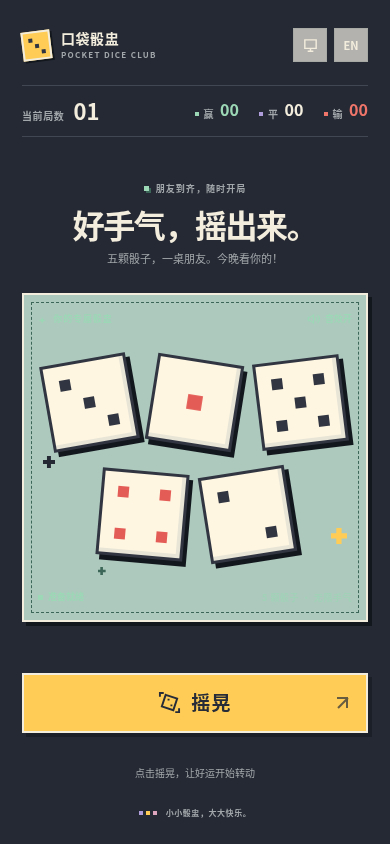
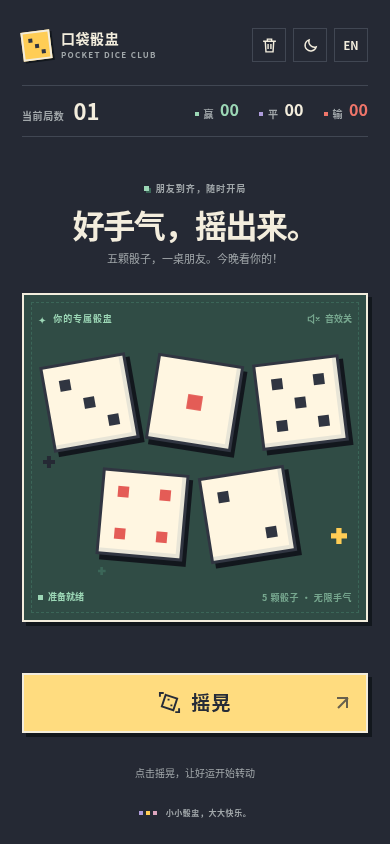
Add confirmed record reset while preserving preferences

Changed region(s): [[0.0615, 0.3389, 0.9538, 0.7393], [0.0615, 0.8009, 0.9538, 0.8934], [0.6462, 0.0308, 0.9538, 0.0924]]

diff --git a/app.js b/app.js
@@ -14,6 +14,9 @@
       scoreboard: '本局与战绩', dice: '五颗骰子', die: '骰子', points: '点',
       caption: '5 颗骰子 · 无限手气', resultCaption: '记住点数，藏好好运', done: '本局已结束 ✓',
       nextRound: '本局已记分，新一局开始。',
+      reset: '重置记录', resetTitle: '确定重置记录？', cancel: '取消', resetConfirm: '确认重置',
+      resetDescription: '局数和赢、平、输记录将清零，当前对局也会重新开始。主题、语言和音效设置会保留，此操作无法撤销。',
+      resetDone: '记录已清空，从第 1 局重新开始。',
       ready: { title: '好手气，摇出来。', subtitle: '五颗骰子，一桌朋友。今晚看你的！', status: '准备就绪', hint: '点击摇晃，让好运开始转动' },
       shaking: { title: '好运，正在路上！', subtitle: '跟着感觉走，随时喊停。', status: '摇晃中', hint: '点击「停」，揭晓你的点数' },
       result: { title: '这把，手气如何？', subtitle: '不满意就重摇，准备好了就确定。', status: '等待确认', hint: '确定后锁定点数，和朋友开始对局' },
@@ -30,6 +33,9 @@
       scoreboard: 'Round and results', dice: 'Five dice', die: 'Die', points: '',
       caption: '5 DICE · ENDLESS LUCK', resultCaption: 'YOUR DICE, YOUR SECRET', done: 'Round complete ✓',
       nextRound: 'Result saved. A new round is ready.',
+      reset: 'Reset records', resetTitle: 'Reset your records?', cancel: 'Cancel', resetConfirm: 'Reset records',
+      resetDescription: 'Clear all round, win, draw and loss records and restart the current round. Theme, language and sound settings will stay. This cannot be undone.',
+      resetDone: 'Records cleared. Starting again at round 1.',
       ready: { title: 'Give luck a little shake.', subtitle: 'Five dice. A table of friends. Your move.', status: 'READY TO ROLL', hint: 'Tap Shake and let the good times roll' },
       shaking: { title: 'Good luck in motion.', subtitle: 'Trust your gut. Stop when it feels right.', status: 'SHAKING', hint: 'Tap Stop to reveal your dice' },
       result: { title: 'Feeling lucky?', subtitle: 'Roll again, or lock in your lucky five.', status: 'YOUR CALL', hint: 'Confirm your dice to start playing with friends' },
@@ -42,6 +48,7 @@
   const arena = $('#dice-arena');
   const slider = $('#round-slider');
   const thumb = $('#slider-thumb');
+  const resetDialog = $('#reset-dialog');
   const reducedMotion = matchMedia('(prefers-reduced-motion: reduce)');
   const systemTheme = matchMedia('(prefers-color-scheme: dark)');
   const faces = { 1: [5], 2: [1, 9], 3: [1, 5, 9], 4: [1, 3, 7, 9], 5: [1, 3, 5, 7, 9], 6: [1, 3, 4, 6, 7, 9] };
@@ -63,6 +70,7 @@
   let slideProgress = 0;
   let drag = null;
   let finishing = false;
+  let finishTimer = 0;
   const activeSounds = new Set();
 
   const diceElements = Array.from({ length: 5 }, (_, i) => {
@@ -160,6 +168,8 @@
     $('#language-toggle').textContent = language === 'zh' ? 'EN' : '中';
     $('#language-toggle').setAttribute('aria-label', language === 'zh' ? 'Switch to English' : '切换为中文');
     $('#language-toggle').title = $('#language-toggle').getAttribute('aria-label');
+    $('#reset-records-button').setAttribute('aria-label', text.reset);
+    $('#reset-records-button').title = text.reset;
     updateTheme();
     updateSound();
     drawDice();
@@ -321,7 +331,8 @@
     ensureAudio();
     melody(outcome);
     const finalOutcome = outcome;
-    window.setTimeout(() => {
+    finishTimer = window.setTimeout(() => {
+      finishTimer = 0;
       stats[finalOutcome] += 1;
       outcome = 'draw';
       state = 'ready';
@@ -333,9 +344,49 @@
       void shell.offsetWidth;
       shell.classList.add('celebration');
       $('#announcement').textContent = words[language].nextRound;
-      $('#shake-button').focus({ preventScroll: true });
+      if (!resetDialog.open) $('#shake-button').focus({ preventScroll: true });
     }, reducedMotion.matches ? 0 : 220);
   }
+
+  function resetRecords() {
+    clearTimeout(finishTimer);
+    finishTimer = 0;
+    cancelAnimationFrame(animationFrame);
+    stopSounds();
+    finishing = false;
+    stats.win = stats.draw = stats.loss = 0;
+    dice = [3, 1, 5, 4, 2];
+    outcome = 'draw';
+    state = 'ready';
+    arena.classList.remove('is-settling');
+    shell.classList.remove('celebration');
+    diceElements.forEach((die) => {
+      die.style.setProperty('--shake-x', '0px');
+      die.style.setProperty('--shake-y', '0px');
+      die.style.setProperty('--shake-r', '0deg');
+    });
+    render();
+    resetSlider();
+    save();
+    $('#announcement').textContent = words[language].resetDone;
+  }
+
+  $('#reset-records-button').addEventListener('click', () => {
+    if (resetDialog.open) return;
+    cancelAnimationFrame(animationFrame);
+    stopSounds();
+    resetDialog.returnValue = 'cancel';
+    resetDialog.showModal();
+  });
+  resetDialog.addEventListener('close', () => {
+    if (resetDialog.returnValue === 'confirm') resetRecords();
+    else if (state === 'shaking' && !document.hidden) {
+      ensureAudio();
+      lastShake = -Infinity;
+      animationFrame = requestAnimationFrame(shakeFrame);
+    }
+    $('#reset-records-button').focus({ preventScroll: true });
+  });
 
   $('#shake-button').addEventListener('click', () => state === 'shaking' ? stopShake() : startShake());
   $('#reroll-button').addEventListener('click', startShake);

diff --git a/index.html b/index.html
@@ -24,6 +24,9 @@
           <div class="brand-copy"><strong data-i18n="brand">口袋骰盅</strong><span>POCKET DICE CLUB</span></div>
         </div>
         <div class="toolbar">
+          <button class="icon-button" id="reset-records-button" type="button" aria-label="重置记录" title="重置记录" aria-haspopup="dialog" aria-controls="reset-dialog">
+            <svg viewBox="0 0 24 24" fill="none" stroke="currentColor" stroke-width="2" aria-hidden="true"><path d="M3 6h18M9 6V3h6v3M6 6l1 15h10l1-15M10 10v7M14 10v7"/></svg>
+          </button>
           <button class="icon-button" id="theme-toggle" type="button" aria-label="主题：跟随系统，点击切换" title="主题：跟随系统，点击切换">
             <svg viewBox="0 0 24 24" fill="none" stroke="currentColor" stroke-width="2" aria-hidden="true"><path d="M4 4h16v12H4zM8 20h8M12 16v4"/></svg>
           </button>
@@ -103,5 +106,16 @@
       <footer class="footer-note"><span class="footer-diamonds" aria-hidden="true"><i></i><i></i><i></i></span><span data-i18n="footer">小小骰盅，大大快乐。</span></footer>
       <div class="sr-only" role="status" aria-live="polite" id="announcement"></div>
     </div>
+    <dialog class="reset-dialog" id="reset-dialog" aria-labelledby="reset-title" aria-describedby="reset-description">
+      <form method="dialog">
+        <span class="dialog-symbol" aria-hidden="true">!</span>
+        <h2 id="reset-title" data-i18n="resetTitle">确定重置记录？</h2>
+        <p id="reset-description" data-i18n="resetDescription">局数和赢、平、输记录将清零，当前对局也会重新开始。主题、语言和音效设置会保留，此操作无法撤销。</p>
+        <div class="dialog-actions">
+          <button class="action-button action-secondary" type="submit" value="cancel" autofocus data-i18n="cancel">取消</button>
+          <button class="action-button action-reset" id="confirm-reset-button" type="submit" value="confirm" data-i18n="resetConfirm">确认重置</button>
+        </div>
+      </form>
+    </dialog>
   </body>
 </html>

diff --git a/styles.css b/styles.css
@@ -176,6 +176,22 @@ button:disabled { cursor: default; }
 .brand-copy strong { font-size: 14px; font-weight: 850; line-height: 1.25; letter-spacing: .04em; }
 .brand-copy > span { color: var(--muted); font-size: 8px; font-weight: 650; line-height: 1.25; letter-spacing: .16em; }
 .toolbar { display: flex; gap: 7px; flex: 0 0 auto; }
+.reset-dialog {
+  width: min(340px, calc(100vw - 40px));
+  max-height: calc(100dvh - 32px);
+  padding: 24px;
+  border: 3px solid var(--ink);
+  background: var(--paper);
+  color: var(--ink);
+  box-shadow: 7px 7px 0 var(--shadow);
+}
+.reset-dialog::backdrop { background: rgba(15, 20, 28, .65); }
+.dialog-symbol { display: grid; place-items: center; width: 32px; height: 32px; margin-bottom: 16px; border: 2px solid var(--ink); background: var(--gold); color: #272c38; font-size: 22px; font-weight: 850; box-shadow: 3px 3px 0 var(--shadow); }
+.reset-dialog h2 { margin: 0 0 12px; font-size: 22px; line-height: 1.3; }
+.reset-dialog p { margin: 0 0 24px; color: var(--muted); font-size: 13px; line-height: 1.7; }
+.dialog-actions { display: grid; grid-template-columns: 1fr 1fr; gap: 12px; }
+.dialog-actions .action-button { min-height: 46px; padding: 10px 7px; font-size: 13px; letter-spacing: 0; }
+.action-reset { background: var(--red); color: #272c38; }
 .icon-button {
   display: grid;
   place-items: center;

diff --git a/README.md b/README.md
@@ -55,6 +55,7 @@ python3 -m http.server 8000
 - 手机固定满屏，适配安全区域、小屏和横屏，不需要上下滚动。
 - 明亮像素风格与系统字体；默认跟随系统主题。右上角主题按钮依次切换系统、浅色、深色。
 - 中英文切换、音效开关。碰撞音与结算提示音由浏览器即时合成，不加载外部音频。
+- 右上角垃圾桶按钮可以重置记录：先弹窗确认，确认后清空战绩、回到第 1 局并重新开始当前对局；主题、语言和音效设置保留。取消或按 Esc 不会清除记录。
 - 本机浏览器保存战绩、设置、已停下或锁定的骰子，以及选中的结果。存储不可用时仍能正常游玩，但刷新后不保留状态。
 - 滑动不足会自动回弹；支持触摸、鼠标及键盘。聚焦滑块后，可用方向键移动，或按 End / Enter / 空格完成结算。
 - 尊重系统「减少动态效果」设置；切换到后台时自动停骰并暂停音效。
